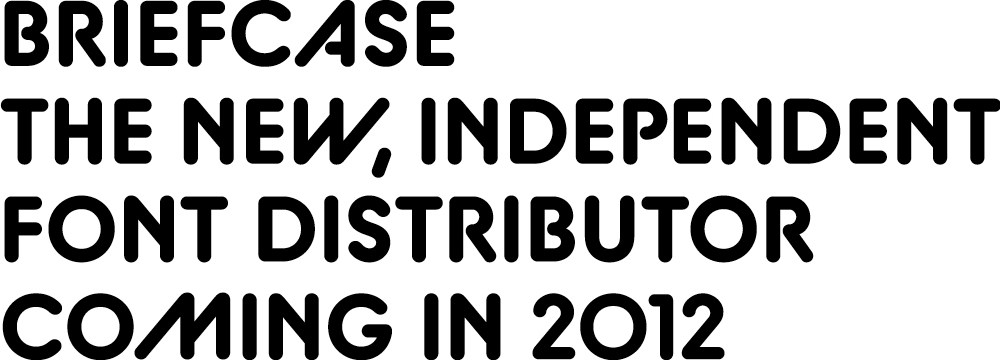
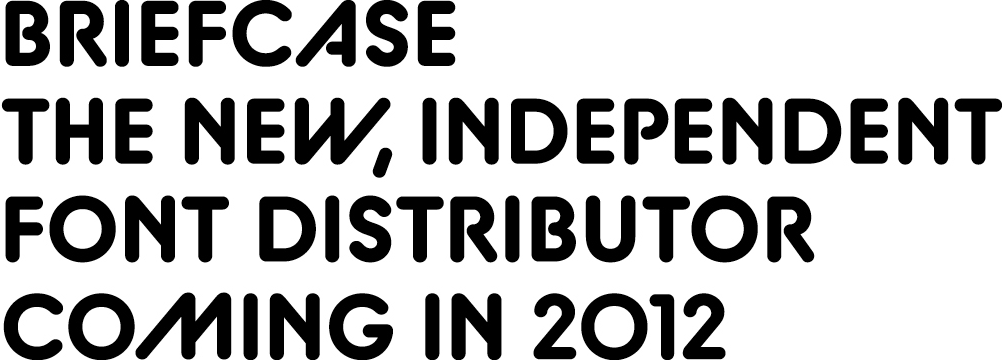
Fix the image and the highlight on the input

diff --git a/app/stylesheets/base.scss b/app/stylesheets/base.scss
@@ -7,14 +7,20 @@ body {
   line-height: 18px;
   color: #000;
   margin: 0 auto;
-  width: 1000px;
+  width: 1002px;
 }
 
 input, textarea, select {
   font-family: "Lucida Grande", "Lucida Sans Unicode", Arial, Verdana,sans-serif;
-  font-size: 11px;
+  font-size: $smallfont;
   line-height: 18px;
   color: #000;
+}
+
+input[type=email]:hover,
+input[type=email]:focus,
+input[type=email]:active {
+  outline: none;
 }
 
 p, ul, ol, blockquote, table, h1, h2, h3, h4, h5, h6 {
@@ -34,7 +40,7 @@ small, .small {
 /* Components */
 div#main {
   background: url(../images/launch_header.png) no-repeat;
-  width: 1000px;
+  width: 1002px;
   height: 360px;
   text-indent: -5000px;
   margin: 170px 0px 196px 0px;
